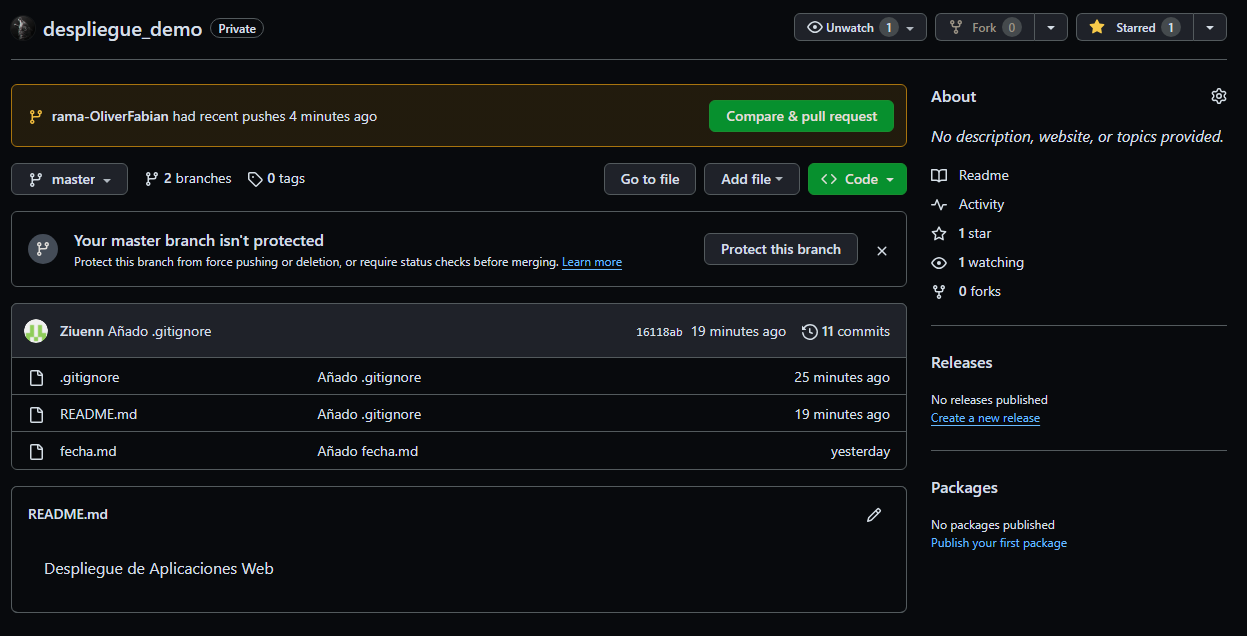
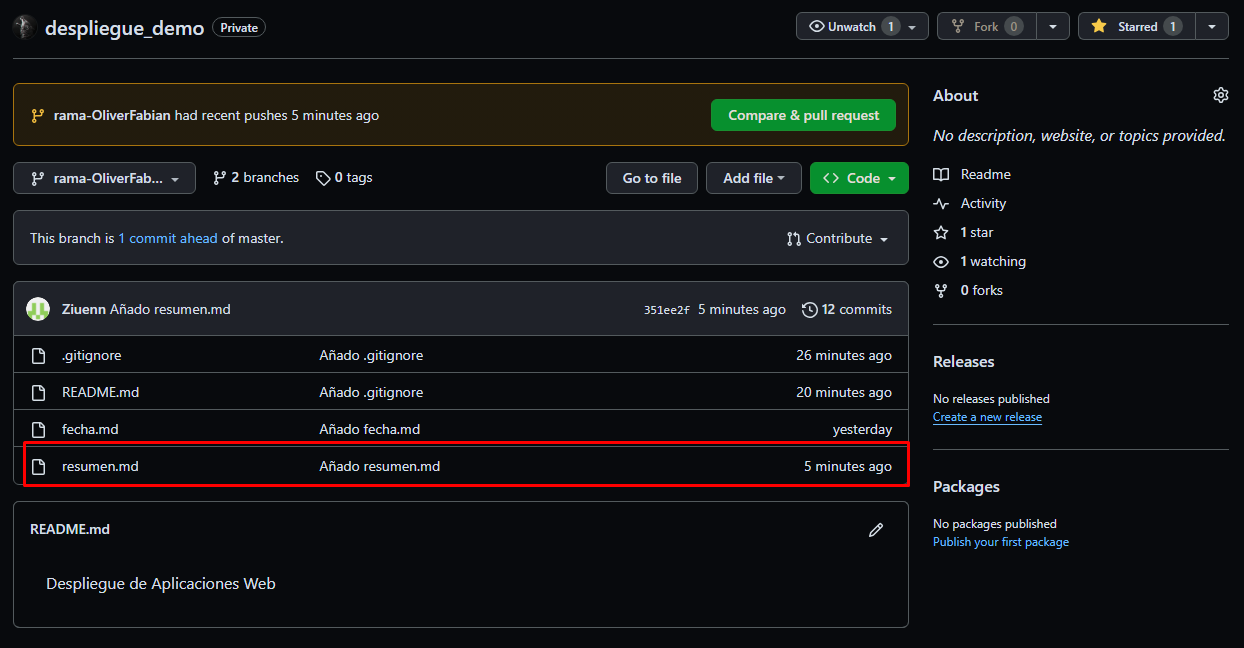
Agrego apartado 4 desde VSCode

diff --git a/Documentacion.md b/Documentacion.md
@@ -1165,12 +1165,18 @@ Hago push:
 
 ![Hago push](./img/git89.png)
 
+Muestro en Github que se ha subido la nueva "**rama-OliverFabian**" y que contiene en nuevo archivo "**resumen.md**":
+
+![Se ha subido la rama "rama-OliverFabian" y contiene el archivo "resumen.md"](./img/git90.png)
+
+![Se ha subido la rama "rama-OliverFabian" y contiene el archivo "resumen.md"](./img/git91.png)
+
 Muestro en Github también la rama "**master**" que aún no tienen el archivo "**resumen.md**":
 
-![Muestro en Github también la rama "master" que aún no tienen el archivo "resumen.md"](./img/git90.png)
+![Muestro en Github también la rama "master" que aún no tienen el archivo "resumen.md"](./img/git93.png)
 
 Contenido del archivo "**resumen.md**":
 
-![Contenido del archivo "resumen.md"](./img/git83.png)
+![Contenido del archivo "resumen.md"](./img/git94.png)
 
 ## Oliver Fabián Stetcu Stepanov
